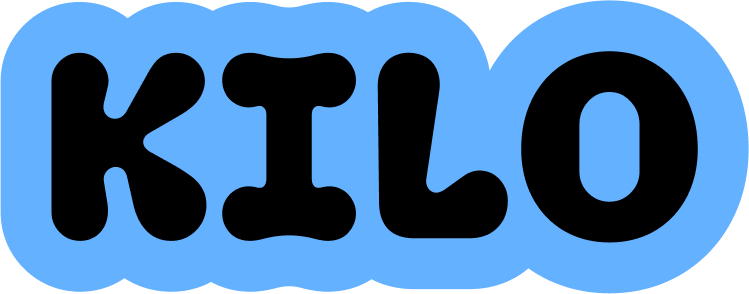
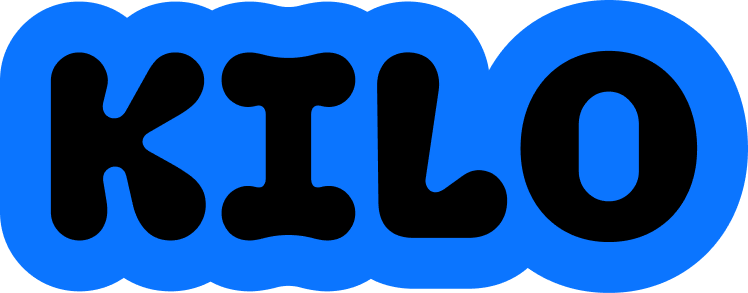
help

diff --git a/middle-east.html b/middle-east.html
@@ -9,7 +9,7 @@
   <link rel="apple-touch-icon" href="assets/favicon.png">
   <link rel="stylesheet" href="styles.css">
 </head>
-<body class="kilo-display-page variable">
+<body class="kilo-page">
 
   <!-- Header Container (will be populated by JavaScript) -->
   <div id="header-container"></div>
@@ -40,10 +40,10 @@
       <div class="multilingual-marquee">
         <div class="marquee-container">
           <div class="marquee-content">
-            <span class="marquee-text kilo-display-text regular" style="font-variation-settings: 'wdth' 80;">KILO Super Narrow</span>
-            <span class="marquee-text kilo-display-text regular" style="font-variation-settings: 'wdth' 100;">KILO Narrow</span>
-            <span class="marquee-text kilo-display-text regular" style="font-variation-settings: 'wdth' 140;">KILO Compact</span>
-            <span class="marquee-text kilo-display-text regular" style="font-variation-settings: 'wdth' 200;">KILO Standard</span>
+            <span class="marquee-text kilo-text regular">Kilo Text Regular</span>
+            <span class="marquee-text kilo-text regular">Kilo Text Regular</span>
+            <span class="marquee-text kilo-text regular">Kilo Text Regular</span>
+            <span class="marquee-text kilo-text regular">Kilo Text Regular</span>
             
                       </div>
         </div>
@@ -61,28 +61,28 @@
         <input class="leading" id="leading-1" type="range" min="0.5" max="2" step="0.05" />
         <label class="label-custom" for="spacing-1">Letter Spacing</label>
         <input class="spacing" id="spacing-1" type="range" min="-0.1" max="0.1" step="0.01" />
-        <label class="label-custom" for="width-1">Width</label>
-        <input class="width" id="width-1" type="range" min="80" max="200" value="100" />      
       </div>
       <div class="font-align-wrapper">
         <div class="font-wrapper">
           <div class="custom-select font-select-custom" data-section="1">
             <div class="select-header">
-              <span class="select-value">KILO Narrow</span>
+              <span class="select-value">Kilo Text Regular</span>
               <span class="select-arrow"></span>
             </div>
             <div class="select-options">
-              <div class="select-option" data-value="KILO Super Narrow">KILO Super Narrow</div>
-              <div class="select-option" data-value="KILO Narrow">KILO Narrow</div>
-              <div class="select-option" data-value="KILO Compact">KILO Compact</div>
-              <div class="select-option" data-value="KILO Standard">KILO Standard</div>
+              <div class="select-option" data-value="Kilo Text Regular">Kilo Text Regular</div>
+              <!--<div class="select-option" data-value="Kilo Text Regular">Kilo Text Regular</div>
+              <div class="select-option" data-value="Safra Regular">Safra Regular</div>
+              <div class="select-option" data-value="Safra Bold">Safra Bold</div>
+              <div class="select-option" data-value="Safra Sans Regular">Safra Sans Regular</div>
+              <div class="select-option" data-value="Safra Sans Bold">Safra Sans Bold</div>
+              <div class="select-option" data-value="Sugar Serif Regular">Sugar Serif Regular</div>
+              <div class="select-option" data-value="Sugar Sans Regular">Sugar Sans Regular</div>-->
             </div>
           </div>
-          <select class="font-select" aria-label="Font width preset" style="display: none;">
-            <option value="KILO Super Narrow">KILO Super Narrow</option>
-            <option value="KILO Narrow" selected>KILO Narrow</option>
-            <option value="KILO Compact">KILO Compact</option>
-            <option value="KILO Standard">KILO Standard</option>
+          <select class="font-select" aria-label="Font and weight" style="display: none;">
+            <option value="Kilo Text Regular" selected>Kilo Text Regular</option>
+            
           </select>
         </div>
         <div class="align-buttons" role="group" aria-label="Align">
@@ -93,7 +93,7 @@
       </div>
     </div>
 
-    <div class="type-area column-count-3" contenteditable="true" dir="ltr" style="font-family: 'Kilo Display'; font-weight: 400;">Stefani Joanne Angelina Germanotta, born March 28, 1986, known professionally as Lady Gaga, is an American singer Stefani Joanne Angelina Germanotta, born March 28, 1986, known professionally as Lady Gaga, is an American singer Stefani Joanne Angelina Germanotta, born March 28, 1986, known professionally as Lady Gaga, is an American singer Stefani Joanne Angelina Germanotta, born March 28, 1986, known professionally as Lady Gaga, is an American singer Stefani Joanne Angelina Germanotta, born March 28, 1986, known professionally as Lady Gaga, is an American singer...</div>
+    <div class="type-area column-count-3" contenteditable="true" dir="ltr" style="font-family: Safra; font-weight: 400;">Stefani Joanne Angelina Germanotta, born March 28, 1986, known professionally as Lady Gaga, is an American singer Stefani Joanne Angelina Germanotta, born March 28, 1986, known professionally as Lady Gaga, is an American singer Stefani Joanne Angelina Germanotta, born March 28, 1986, known professionally as Lady Gaga, is an American singer Stefani Joanne Angelina Germanotta, born March 28, 1986, known professionally as Lady Gaga, is an American singer Stefani Joanne Angelina Germanotta, born March 28, 1986, known professionally as Lady Gaga, is an American singer...</div>
   </section>
 
   <!-- === Section 2, large multilingual headline, Sans Bold, centered === -->
@@ -106,28 +106,22 @@
         <input class="leading" id="leading-2" type="range" min="0.5" max="2" step="0.05" />
         <label class="label-custom" for="spacing-2">Letter Spacing</label>
         <input class="spacing" id="spacing-2" type="range" min="-0.1" max="0.1" step="0.01" />
-        <label class="label-custom" for="width-2">Width</label>
-        <input class="width" id="width-2" type="range" min="80" max="200" value="100" />      
       </div>
       <div class="font-align-wrapper">
         <div class="font-wrapper">
           <div class="custom-select font-select-custom" data-section="2">
             <div class="select-header">
-              <span class="select-value">KILO Narrow</span>
+              <span class="select-value">Kilo Text Regular</span>
               <span class="select-arrow"></span>
             </div>
             <div class="select-options">
-              <div class="select-option" data-value="KILO Super Narrow">KILO Super Narrow</div>
-              <div class="select-option" data-value="KILO Narrow">KILO Narrow</div>
-              <div class="select-option" data-value="KILO Compact">KILO Compact</div>
-              <div class="select-option" data-value="KILO Standard">KILO Standard</div>
+              <div class="select-option" data-value="Kilo Text Regular">Kilo Text Regular</div>
+              
             </div>
           </div>
-          <select class="font-select" aria-label="Font width preset" style="display: none;">
-            <option value="KILO Super Narrow">KILO Super Narrow</option>
-            <option value="KILO Narrow" selected>KILO Narrow</option>
-            <option value="KILO Compact">KILO Compact</option>
-            <option value="KILO Standard">KILO Standard</option>
+          <select class="font-select" aria-label="Font and weight" style="display: none;">
+            <option value="Kilo Text Regular">Kilo Text Regular</option>
+           
           </select>
         </div>
         <div class="align-buttons" role="group" aria-label="Align">
@@ -138,7 +132,7 @@
       </div>
     </div>
 
-    <div class="type-area column-count-1 responsive-text" contenteditable="true" dir="rtl" style="font-family: 'Kilo Display'; font-weight: 400; font-size: 244px; line-height: 1; letter-spacing: -0.02em; text-align: center; white-space: nowrap;">K-Pwr®</div>
+    <div class="type-area column-count-1 responsive-text" contenteditable="true" dir="rtl" style="font-family: 'Safra Sans'; font-weight: 700; font-size: 244px; line-height: 1; letter-spacing: -0.02em; text-align: center; white-space: nowrap;">K-Pwr®</div>
   </section>
 
   <!-- === Section 3, two columns, Sans Regular, long text === -->
@@ -151,28 +145,22 @@
         <input class="leading" id="leading-3" type="range" min="0.5" max="2" step="0.05" />
         <label class="label-custom" for="spacing-3">Letter Spacing</label>
         <input class="spacing" id="spacing-3" type="range" min="-0.1" max="0.1" step="0.01" />
-        <label class="label-custom" for="width-3">Width</label>
-        <input class="width" id="width-3" type="range" min="80" max="200" value="100" />      
       </div>
       <div class="font-align-wrapper">
         <div class="font-wrapper">
           <div class="custom-select font-select-custom" data-section="3">
             <div class="select-header">
-              <span class="select-value">KILO Narrow</span>
+              <span class="select-value">Kilo Text Regular</span>
               <span class="select-arrow"></span>
             </div>
             <div class="select-options">
-              <div class="select-option" data-value="KILO Super Narrow">KILO Super Narrow</div>
-              <div class="select-option" data-value="KILO Narrow">KILO Narrow</div>
-              <div class="select-option" data-value="KILO Compact">KILO Compact</div>
-              <div class="select-option" data-value="KILO Standard">KILO Standard</div>
+              <div class="select-option" data-value="Kilo Text Regular">Kilo Text Regular</div>
+             
             </div>
           </div>
-          <select class="font-select" aria-label="Font width preset" style="display: none;">
-            <option value="KILO Super Narrow">KILO Super Narrow</option>
-            <option value="KILO Narrow" selected>KILO Narrow</option>
-            <option value="KILO Compact">KILO Compact</option>
-            <option value="KILO Standard">KILO Standard</option>
+          <select class="font-select" aria-label="Font and weight" style="display: none;">
+            <option value="Kilo Text Regular">Kilo Text Regular</option>
+          
           </select>
         </div>
         <div class="align-buttons" role="group" aria-label="Align">
@@ -183,7 +171,7 @@
       </div>
     </div>
 
-    <div class="type-area column-count-2" contenteditable="true" dir="ltr" style="font-family: 'Kilo Display'; font-weight: 400; font-size: 18px; line-height: 1.5; letter-spacing: 0.01em;">Stefani Joanne Angelina Germanotta, born March 28, 1986, known professionally as Lady Gaga, is an American singer, songwriter, and actress. Known for her image reinventions and versatility across the entertainment industry, she is an influential figure in popular music. With estimated sales of 124 million records, she is one of the best selling music artists of all time. Publications such as Billboard and Rolling Stone have ranked her among the greatest artists in history.
+    <div class="type-area column-count-2" contenteditable="true" dir="ltr" style="font-family: 'Safra Sans'; font-weight: 400; font-size: 18px; line-height: 1.5; letter-spacing: 0.01em;">Stefani Joanne Angelina Germanotta, born March 28, 1986, known professionally as Lady Gaga, is an American singer, songwriter, and actress. Known for her image reinventions and versatility across the entertainment industry, she is an influential figure in popular music. With estimated sales of 124 million records, she is one of the best selling music artists of all time. Publications such as Billboard and Rolling Stone have ranked her among the greatest artists in history.
 
 After signing with Interscope Records in 2007, Gaga achieved global recognition with her debut album, The Fame, 2008, and its reissue, The Fame Monster, 2009. The project scored a string of successful singles, including "Just Dance", "Poker Face", "Bad Romance", "Telephone", and "Alejandro". Her second full length album, Born This Way, 2011, explored electronic rock and techno pop and sold more than one million copies first week. Following her electronic dance music influenced third album, Artpop, 2013, she pursued jazz on Cheek to Cheek, 2014, with Tony Bennett, and delved into soft rock on Joanne, 2016.
 
@@ -200,28 +188,22 @@ Gaga ventured into acting, with leading roles in American Horror Story, Hotel, 2
         <input class="leading" id="leading-4" type="range" min="0.5" max="2" step="0.05" />
         <label class="label-custom" for="spacing-4">Letter Spacing</label>
         <input class="spacing" id="spacing-4" type="range" min="-0.1" max="0.1" step="0.01" />
-        <label class="label-custom" for="width-4">Width</label>
-        <input class="width" id="width-4" type="range" min="80" max="200" value="100" />      
       </div>
       <div class="font-align-wrapper">
         <div class="font-wrapper">
           <div class="custom-select font-select-custom" data-section="4">
             <div class="select-header">
-              <span class="select-value">KILO Narrow</span>
+              <span class="select-value">Kilo Text Regular</span>
               <span class="select-arrow"></span>
             </div>
             <div class="select-options">
-              <div class="select-option" data-value="KILO Super Narrow">KILO Super Narrow</div>
-              <div class="select-option" data-value="KILO Narrow">KILO Narrow</div>
-              <div class="select-option" data-value="KILO Compact">KILO Compact</div>
-              <div class="select-option" data-value="KILO Standard">KILO Standard</div>
+              <div class="select-option" data-value="Kilo Text Regular">Kilo Text Regular</div>
+              
             </div>
           </div>
-          <select class="font-select" aria-label="Font width preset" style="display: none;">
-            <option value="KILO Super Narrow">KILO Super Narrow</option>
-            <option value="KILO Narrow" selected>KILO Narrow</option>
-            <option value="KILO Compact">KILO Compact</option>
-            <option value="KILO Standard">KILO Standard</option>
+          <select class="font-select" aria-label="Font and weight" style="display: none;">
+            <option value="Kilo Text Regular">Kilo Text Regular</option>
+            
           </select>
         </div>
         <div class="align-buttons" role="group" aria-label="Align">
@@ -232,7 +214,7 @@ Gaga ventured into acting, with leading roles in American Horror Story, Hotel, 2
       </div>
     </div>
 
-     <div class="type-area column-count-1 responsive-text" contenteditable="true" dir="rtl" style="font-family: 'Kilo Display'; font-weight: 400; font-size: 244px; line-height: 1; letter-spacing: -0.035em; text-align: center; white-space: nowrap;">Cauliflower</div>
+     <div class="type-area column-count-1 responsive-text" contenteditable="true" dir="rtl" style="font-family: 'Safra Sans'; font-weight: 700; font-size: 244px; line-height: 1; letter-spacing: -0.035em; text-align: center; white-space: nowrap;">Cauliflower</div>
   </section>
 
 
@@ -240,27 +222,23 @@ Gaga ventured into acting, with leading roles in American Horror Story, Hotel, 2
   <!-- ===== GLYPH GRID VIEWER ===== -->
   <div class="wrapper" id="fontWrapper">
     <div class="left-panel">
-      <div class="preview-box" id="preview" style="font-family: 'Kilo Display'; font-weight: 400;" data-preview="a"></div>
+      <div class="preview-box" id="preview" style="font-family: Safra; font-weight: 400;" data-preview="a"></div>
       <div class="controls-lite">
         <div class="font-wrapper">
           <div class="custom-select" id="weight-select">
             <div class="select-header">
-              <span class="select-value">KILO Standard</span>
+              <span class="select-value">Kilo Text Regular</span>
               <span class="select-arrow"></span>
             </div>
             <div class="select-options">
-              <div class="select-option" data-value="KILO Super Narrow">KILO Super Narrow</div>
-              <div class="select-option" data-value="KILO Narrow">KILO Narrow</div>
-              <div class="select-option" data-value="KILO Compact">KILO Compact</div>
-              <div class="select-option" data-value="KILO Standard">KILO Standard</div>
+              <div class="select-option" data-value="Kilo Text Regular">Kilo Text Regular</div>
+              
             </div>
           </div>
           <!-- Hidden original select for functionality -->
           <select id="weight" style="display: none;">
-            <option value="KILO Super Narrow">KILO Super Narrow</option>
-            <option value="KILO Narrow">KILO Narrow</option>
-            <option value="KILO Compact">KILO Compact</option>
-            <option value="KILO Standard" selected>KILO Standard</option>
+            <option value="Kilo Text Regular" selected>Kilo Text Regular</option>
+            
           </select>
         </div>
       </div>
@@ -335,7 +313,7 @@ Gaga ventured into acting, with leading roles in American Horror Story, Hotel, 2
 
   <!-- ===== DATA MAPS ===== -->
   <script type="application/json" id="fontMap">{
-    "Kilo Display Regular": { "family": "Kilo Display", "weight": 400 },
+    "Kilo Text Regular": { "family": "Kilo Text", "weight": 400 },
     "Safra Regular": { "family": "Safra", "weight": 400 },
     "Safra Bold": { "family": "Safra", "weight": 700 },
     "Safra Sans Regular": { "family": "Safra Sans", "weight": 400 },
@@ -346,7 +324,7 @@ Gaga ventured into acting, with leading roles in American Horror Story, Hotel, 2
 
   <script type="application/json" id="glyphMap">{
     "default": "!\"#$%&'()*+,-./0123456789ABCDEFGHIJKLMNOPQRSTUVWXYZabcdefghijklmnopqrstuvwxyz",
-    "Safra2": "ABCDEFGHIJKLMNOPQRSTUVWXYZabcdefghijklmnopqrstuvwxyz"
+    "Safra2": "ABCDEFGHIJKLMNOPQRSTUVWXYZabcdefghijklmnopqrstuvwxyzﬁﬂ0123456789½⅓⅔¼¾.:!?#/\\–—()“”‘’„‚®%"
   }</script>
 
   <!-- ===== SCRIPT ===== -->
@@ -377,7 +355,11 @@ Gaga ventured into acting, with leading roles in American Horror Story, Hotel, 2
     document.addEventListener('DOMContentLoaded', function() {
       if (typeof loadHeader === 'function') {
         loadHeader(`
-          <div style="transform: translateY(0px);">KILO</div>
+          <div style="transform: translateY(0px);">Kilo Text</div>
+          <div style="transform: translateY(0px);">Kilo Text</div>
+          <div style="transform: translateY(0px);">Kilo Text</div>
+          <div style="transform: translateY(0px);">Kilo Text</div>
+          <div style="transform: translateY(0px);">Kilo Text</div>
         `);
       }
 });
@@ -531,12 +513,12 @@ Gaga ventured into acting, with leading roles in American Horror Story, Hotel, 2
             <label class="checkbox-label">
               <input type="checkbox" name="family" value="entire" checked>
               <span class="checkmark"></span>
-              Kilo Display Regular<!--Full Family (1)-->
+              Kilo Text Regular<!--Full Family (1)-->
             </label>
             <!--<label class="checkbox-label">
               <input type="checkbox" name="family" value="regular" checked>
               <span class="checkmark"></span>
-              Kilo Display Regular
+              Kilo Text Regular
             </label>-->
            
           </div>

diff --git a/styles.css b/styles.css
@@ -19,7 +19,7 @@
     }
 
     body.kilo-display-page {
-      --primary-color: #63B1FF; /* Blue for Kilo Display */
+      --primary-color: #0B75FF; /* Blue for Kilo Display */
     }
     
     body.sugar-page {
@@ -145,26 +145,30 @@
     }
 
     /* Kilo Display Page Styling - Position-Based */
+    body.kilo-display-page .cover-title {
+      margin: 0 0 -20px 0;
+    }
+
     body.kilo-display-page .cover-title div:nth-child(1) {
       font-family: "Kilo Display", serif;
       font-weight: 400;
       color: black;
-      font-size: 280px;
+      font-size: 30vw;
       line-height: 1;
-      letter-spacing: -10px;
+      letter-spacing: -1vw;
       margin-bottom: 0px;
       transform: translateZ(0);
       will-change: transform;
-      font-variation-settings: "wdth" 80;
+      font-variation-settings: "wdth" 200;
       animation: kiloDisplayWidth 4s ease-in-out infinite;
     }
 
     @keyframes kiloDisplayWidth {
       0%, 100% {
-        font-variation-settings: "wdth" 80;
+        font-variation-settings: "wdth" 200;
       }
       50% {
-        font-variation-settings: "wdth" 200;
+        font-variation-settings: "wdth" 80;
       }
     }
 
